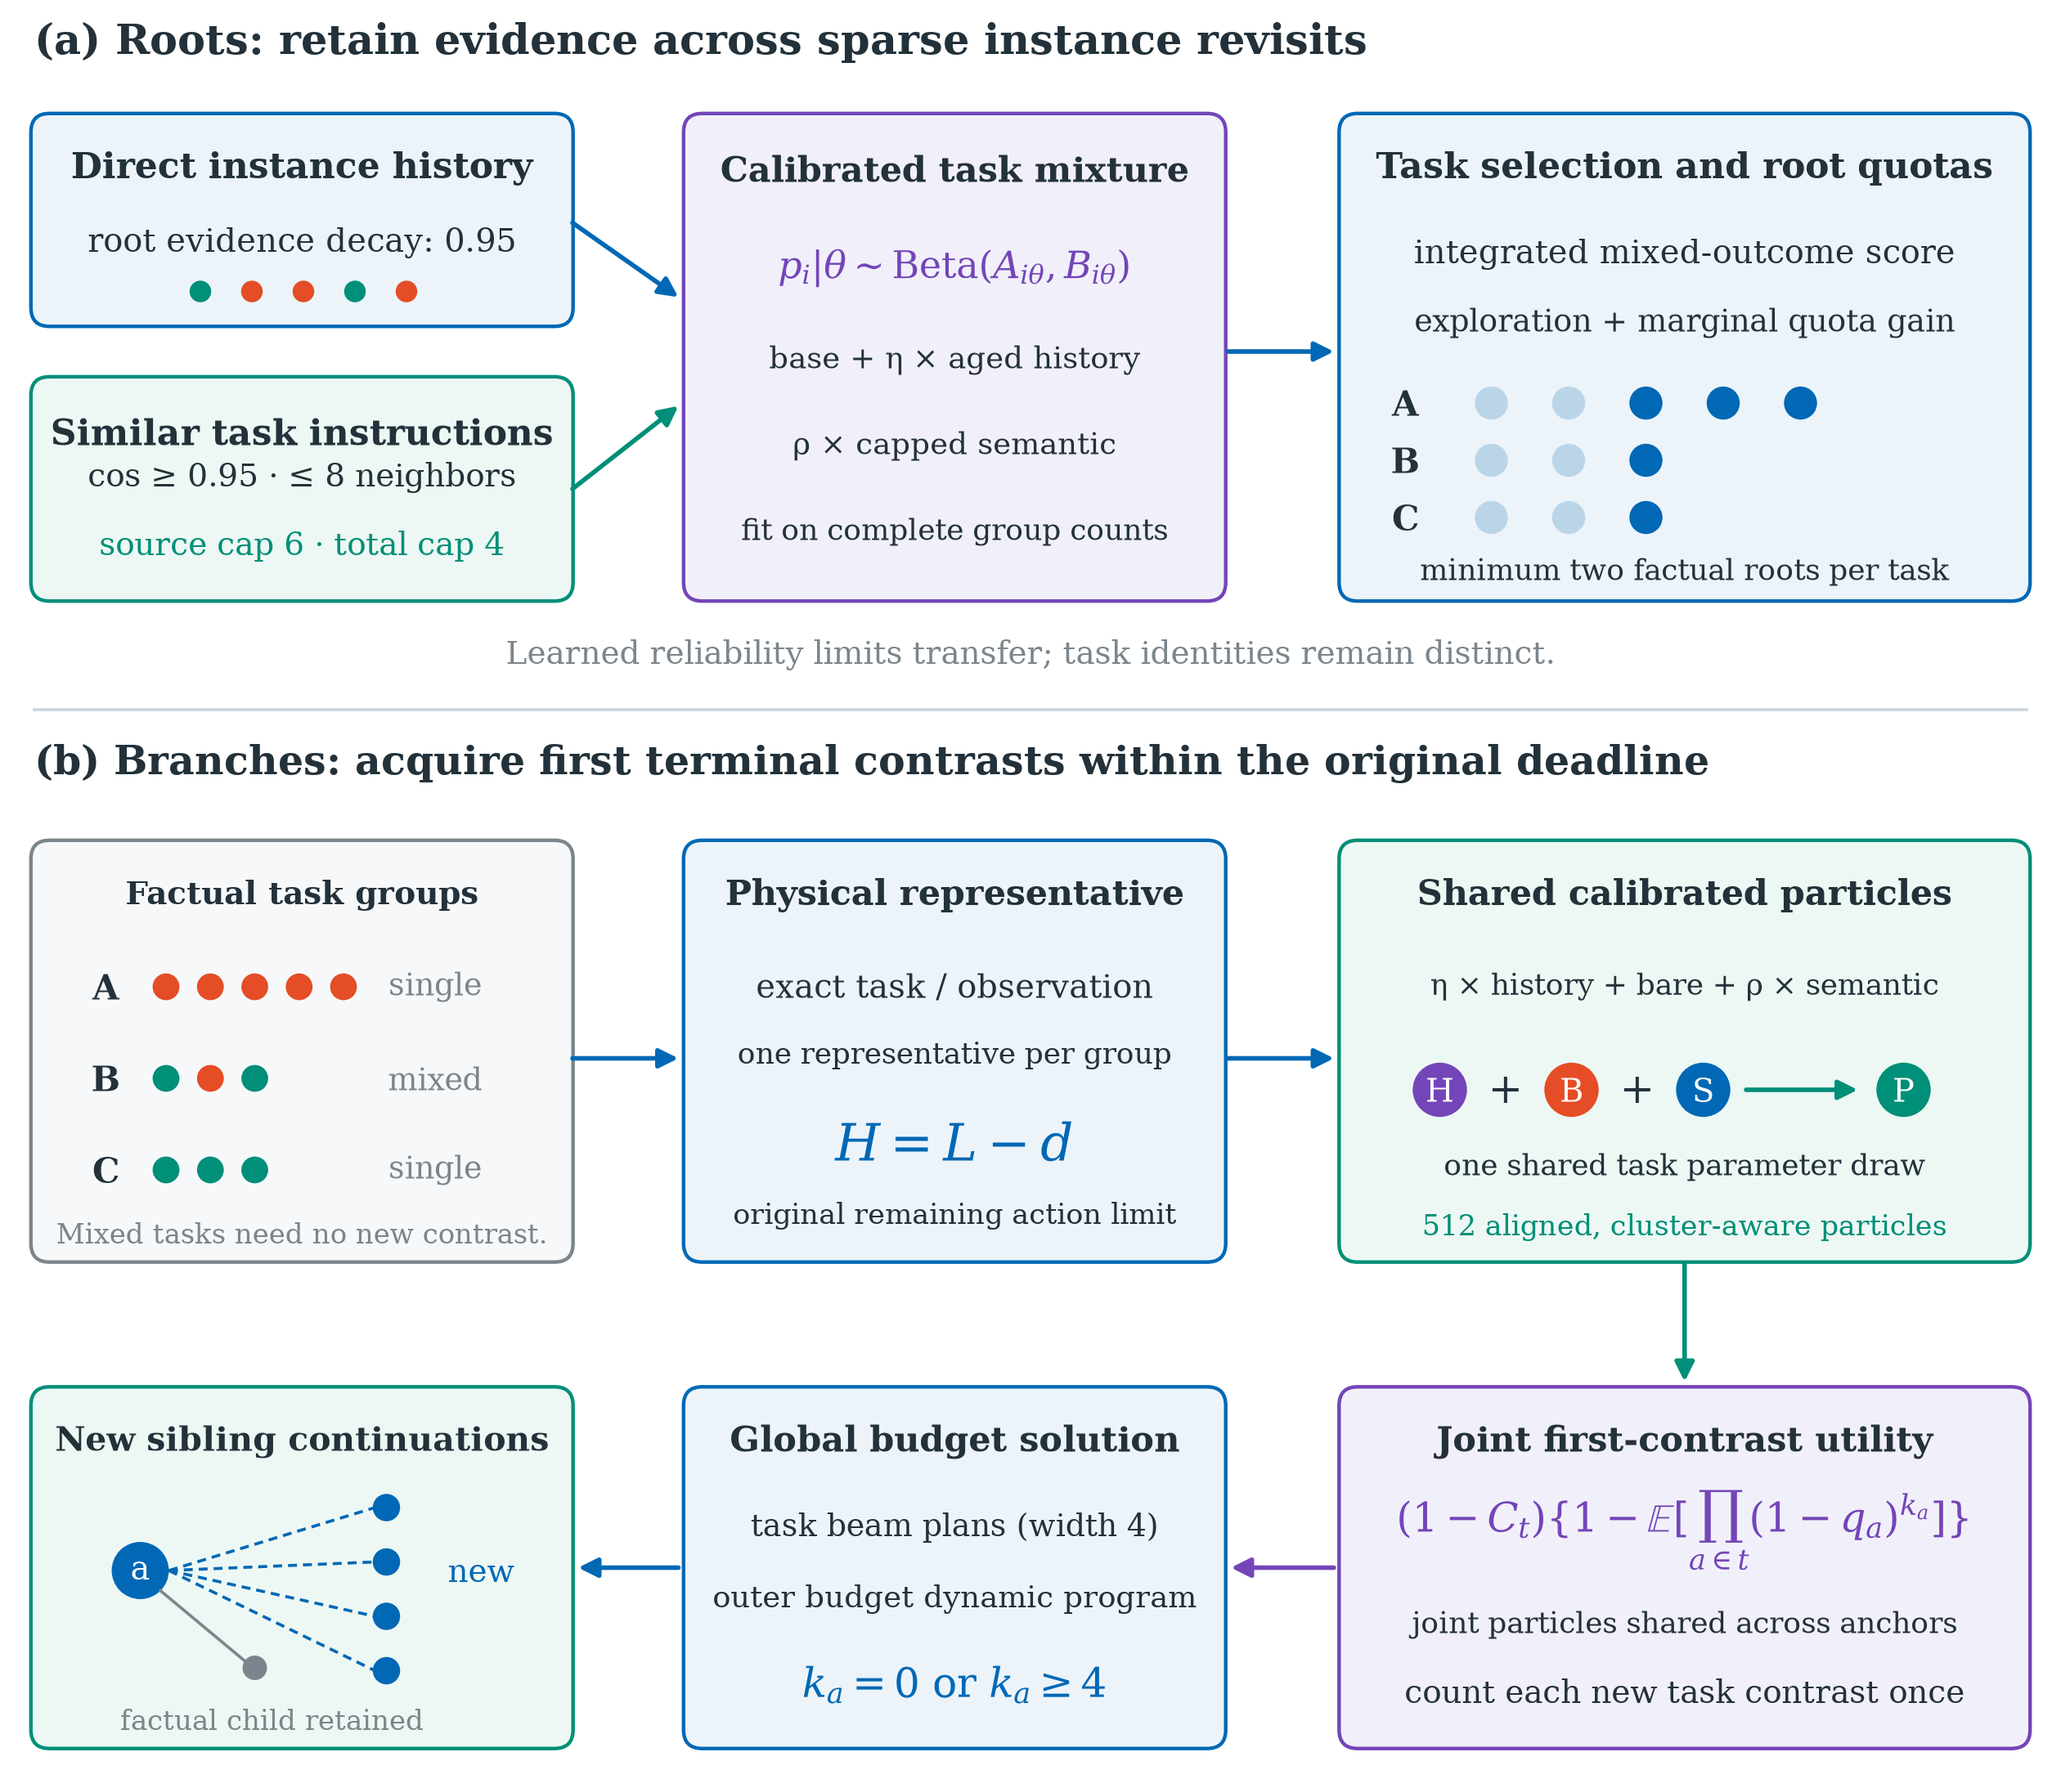
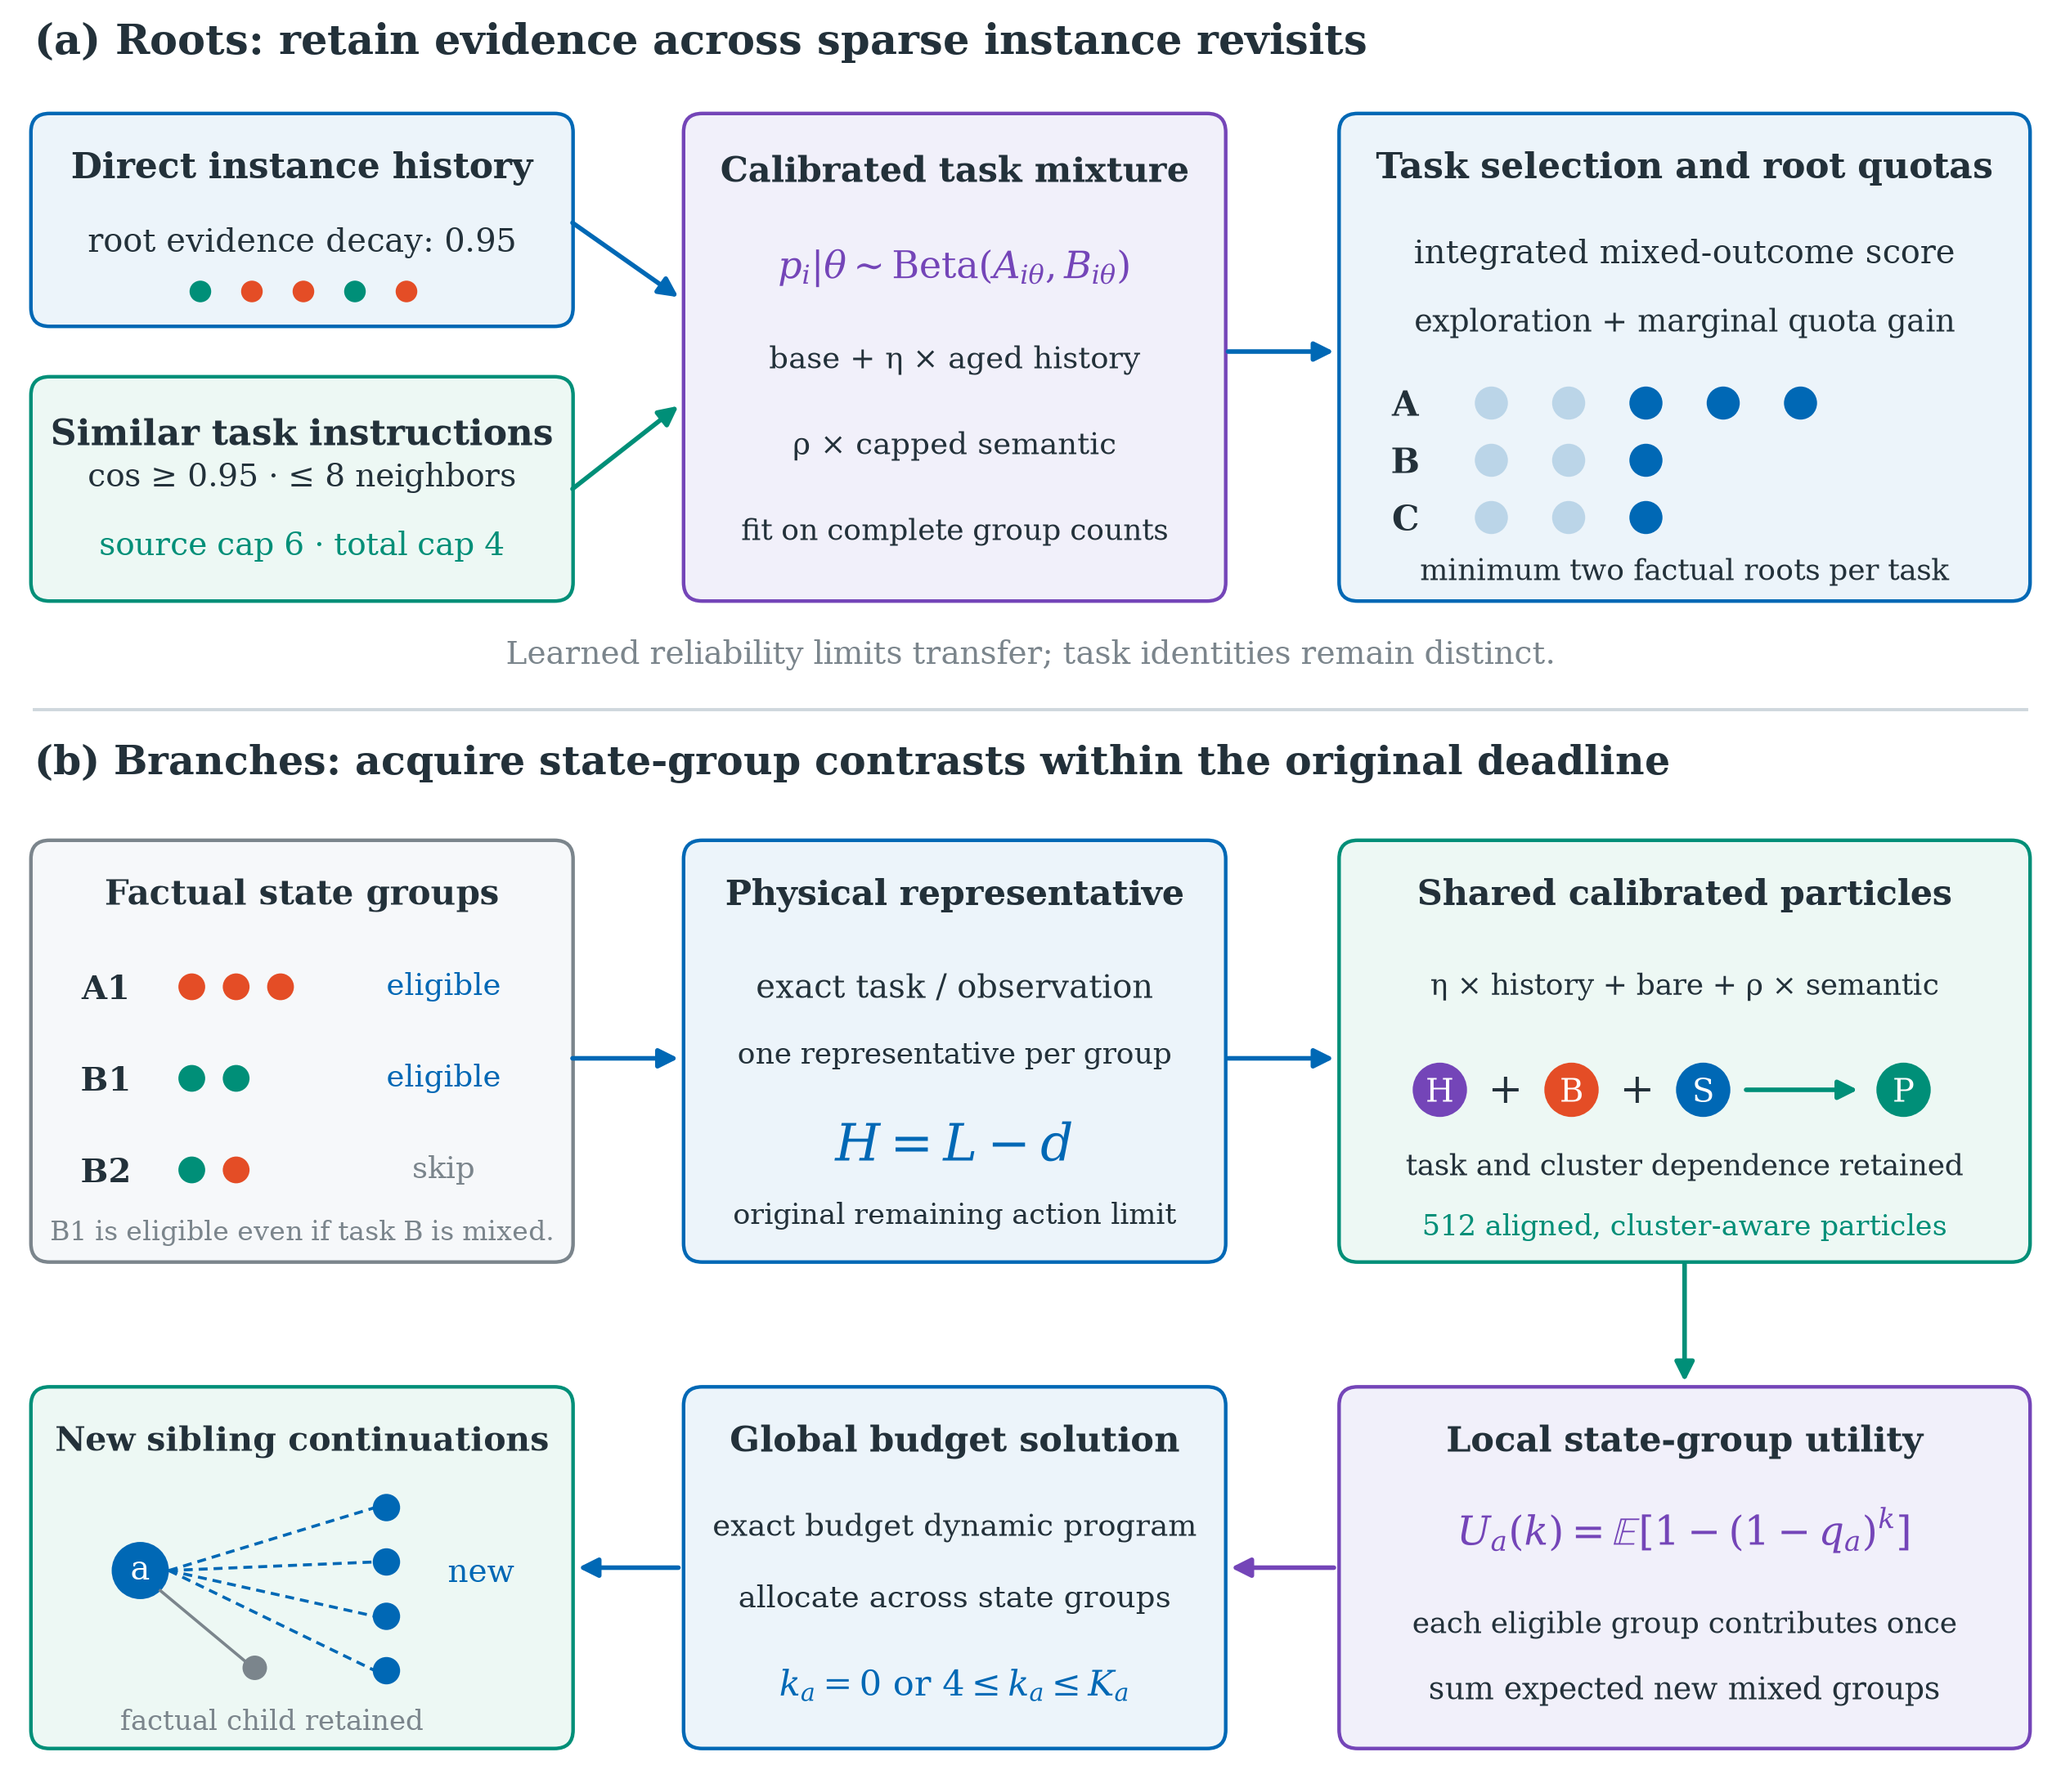
Preserve training metrics and align branch allocation figure

diff --git a/verl-agent/verl/utils/logger/aggregate_logger.py b/verl-agent/verl/utils/logger/aggregate_logger.py
@@ -17,14 +17,16 @@ A Ray logger will receive logging info from different processes.
 
 import logging
 import numbers
+import os
 from typing import Dict
 
 
 def concat_dict_to_str(dict: Dict, step):
     output = [f"step:{step}"]
+    precision = ".10g" if os.environ.get("EL_TSBPO_LOG_FULL_PRECISION") == "1" else ".3f"
     for k, v in dict.items():
         if isinstance(v, numbers.Number):
-            output.append(f"{k}:{v:.3f}")
+            output.append(f"{k}:{v:{precision}}")
     output_str = " - ".join(output)
     return output_str
 

diff --git a/verl-agent/el_tsbpo/core_el_tsbpo.py b/verl-agent/el_tsbpo/core_el_tsbpo.py
@@ -1040,6 +1040,7 @@ def _graph_gigpo_recursive_advantage(
                 (graph_effective_weight > 0).sum().item()
             ),
             "graph_gigpo_state_groups": int(state_count),
+            "graph_gigpo_group_occurrences_mean": active_count / max(1, state_count),
             "graph_gigpo_multi_action_states": int(multi_action_states),
             "graph_gigpo_homogeneous_states": int(homogeneous_states),
             "graph_gigpo_unique_edges": int(unique_edge_count),

diff --git a/verl-agent/verl/trainer/ppo/metric_utils.py b/verl-agent/verl/trainer/ppo/metric_utils.py
@@ -91,6 +91,7 @@ _EL_TSBPO_QUALITY_METRICS = frozenset(
         "el_tsbpo/rollout/branch_generation_efficiency_mean_batch_rows",
         "el_tsbpo/rollout/branch_ready_mean_rows",
         "el_tsbpo/tree/graph_gigpo_fallback_fraction",
+        "el_tsbpo/tree/graph_gigpo_group_occurrences_mean",
         "el_tsbpo/tree/graph_gigpo_subtree_abs_mean",
         "el_tsbpo/tree/graph_gigpo_local_abs_mean",
         "el_tsbpo/tree/graph_gigpo_trajectory_policy_weight_p95",

diff --git a/README.md b/README.md
@@ -8,7 +8,7 @@ EL-TSBPO is a two-stage training workflow for language-model agents in ALFWorld 
 
 | Path | Contents |
 | --- | --- |
-| [`verl-agent/`](verl-agent/) | RL framework, ALFWorld and WebShop environments, EL-TSBPO algorithm, collectors, tests, and two training scripts |
+| [`verl-agent/`](verl-agent/) | RL framework, ALFWorld and WebShop environments, EL-TSBPO algorithm, collectors, and two training scripts |
 | [`llamafactory/`](llamafactory/) | SFT configurations and dataset registration; install LlamaFactory separately |
 | [`docs/assets/`](docs/assets/) | Figures from the manuscript |
 
@@ -141,20 +141,35 @@ CUDA_VISIBLE_DEVICES=0,1 bash examples/el_tsbpo_trainer/run_webshop.sh
 cd ..
 ```
 
-The ALFWorld command selects 15 tasks from 120 candidates, uses 90 root and 120 branch rollouts, and disables optional segment weighting. The WebShop command selects 16 tasks from 128 candidates, uses 96 root and 128 branch rollouts, and enables segment weighting with cap 6. Both use a tree step-backup discount of 0.95, a fixed-reference coefficient of 0.05, and zero entropy regularization. The WebShop script requires an even number of GPUs. Set `EL_TSBPO_MODEL` to override a checkpoint and `EL_TSBPO_WORK_DIR` to relocate local training outputs. Hydra creates run directories outside the repository under `${XDG_STATE_HOME:-$HOME/.local/state}/el-tsbpo/logs`; set `EL_TSBPO_LOG_DIR` to change that location. Scalar training metrics print to stdout by default, so capture stdout or enable a persistent tracking backend to retain plot data. The branch semantic encoder selects an assigned GPU with sufficient available memory; set `EL_TSBPO_BRANCH_EMBEDDING_CUDA_VISIBLE_DEVICES` to restrict its choices. The common RL defaults live in [`el_tsbpo.yaml`](verl-agent/verl/trainer/config/el_tsbpo.yaml); the scripts contain only benchmark-specific overrides. They call the trainer directly, without a `screen` session.
+The ALFWorld command selects 15 tasks from 120 candidates, uses 90 root and 120 branch rollouts, and disables optional segment weighting. The WebShop command selects 16 tasks from 128 candidates, uses 96 root and 128 branch rollouts, and enables segment weighting with cap 6. Both use a tree step-backup discount of 0.95, a fixed-reference coefficient of 0.05, and zero entropy regularization. The WebShop script requires an even number of GPUs. Set `EL_TSBPO_MODEL` to override a checkpoint and `EL_TSBPO_WORK_DIR` to relocate local training outputs. Each launcher saves full-precision scalar metrics and other console output to a unique `train.log` outside the repository under `${XDG_STATE_HOME:-$HOME/.local/state}/el-tsbpo/logs`; set `EL_TSBPO_LOG_DIR` to change that location. The branch semantic encoder selects an assigned GPU with sufficient available memory; set `EL_TSBPO_BRANCH_EMBEDDING_CUDA_VISIBLE_DEVICES` to restrict its choices. The common RL defaults live in [`el_tsbpo.yaml`](verl-agent/verl/trainer/config/el_tsbpo.yaml); the scripts contain only benchmark-specific overrides. They call the trainer directly, without a `screen` session.
+
+Training logs contain the step-indexed metrics needed to reconstruct the paper's training curves. Older figure scripts use `bu_trace/sampling/*`; the current log uses the equivalent `el_tsbpo/sampling/*` names. Figure 6's normalized group density is `el_tsbpo/tree/graph_gigpo_group_occurrences_mean / (episode/length/mean * episode/natural_valid_action_ratio)`, computed separately at each update.
+
+| Paper figure | Logged metrics or source |
+| --- | --- |
+| Figure 4 | Separate complete-task, task-family evaluation; the aggregate online validation log cannot recover these rates. |
+| Figure 5 | `agent_dps/allocator/{candidate,selected}_contrast_probability_mean`, `agent_dps/outcome/{terminal_contrast_branch_rate,same_first_edge_terminal_contrast_branch_rate}`. |
+| Figure 6 | Group density above, for each comparison run. |
+| Figure 7 | `episode/{valid_action_ratio,action_format_valid_ratio}`, `actor/entropy_loss`, `response_length/mean`. |
+| Figure 8 | `actor/{pg_loss,entropy_loss,kl_loss}`, `episode/truncation_rate`, `el_tsbpo/tree/graph_gigpo_{sibling_child_mass_relative_gap_max,raw_sibling_child_mass_relative_gap_max}`, `val/success_rate`. |
+| Figure 9 | `val/success_rate`, `agent_dps/outcome/{new_mixed_states,homogeneous_factual_opposite_branch_rate}`. |
+| Figure 10 | `val/success_rate`, `actor/entropy_loss`, `response_length/mean`, `timing_s/{step,testing,save_checkpoint}`; subtract recorded validation and checkpoint durations from each corresponding step. |
+| Figures A3–A4 | `el_tsbpo/sampling/{bare,branch}_terminal_success_rate`, `episode/{natural,branch}_valid_action_ratio`, `episode/length/mean`, `val/success_rate`, `sampling/effective_ratio`, and the two Figure 5 suffix-contrast metrics. |
+
+Comparisons require separate logs for each configuration. Logs provide the metric types and step order; they do not reproduce historical numeric curves without rerunning those configurations. Smoothing should use each complete ordered series, including intermittent online validation records, without inserting gaps for missing metric values on intervening steps.
 
 For the optional ALFWorld segment comparison, pass `algorithm.el_tsbpo.graph_gigpo_segment_balance=true` to its launcher. For the WebShop Instruct initialization comparison, set `EL_TSBPO_MODEL` to the Instruct checkpoint and pass `actor_rollout_ref.actor.kl_loss_coef=0.01` to its launcher. Give each run a distinct `trainer.experiment_name` when using these overrides.
 
 ## Verification
 
-In the RL environment, run the focused CPU checks:
+In the RL environment, check the import paths and launcher syntax:
 
 ```bash
 conda activate el-tsbpo-alfworld
 cd verl-agent
 python -c 'import verl, el_tsbpo; print(verl.__file__); print(el_tsbpo.__file__)'
-python -m pip install pytest
-python -m pytest -q tests/trainer/ppo
+bash -n examples/el_tsbpo_trainer/run_alfworld.sh
+bash -n examples/el_tsbpo_trainer/run_webshop.sh
 ```
 
 The printed module paths should be inside this checkout. If either points to another editable checkout, activate the new benchmark environment and reinstall this repository there. The launchers also prepend their own repository root to `PYTHONPATH` for Ray workers. Full training requires GPU, environment assets, and model checkpoints. The repository contains no pretrained weights or collected demonstrations.
